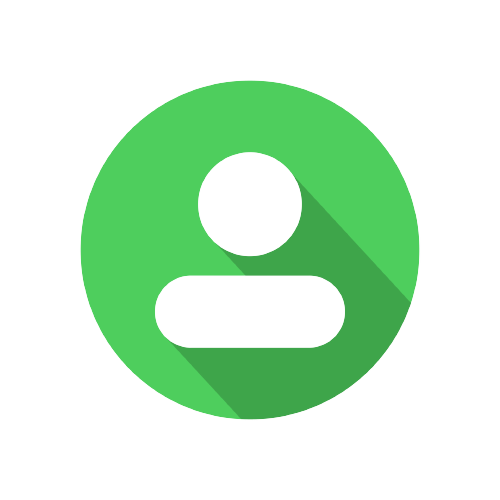
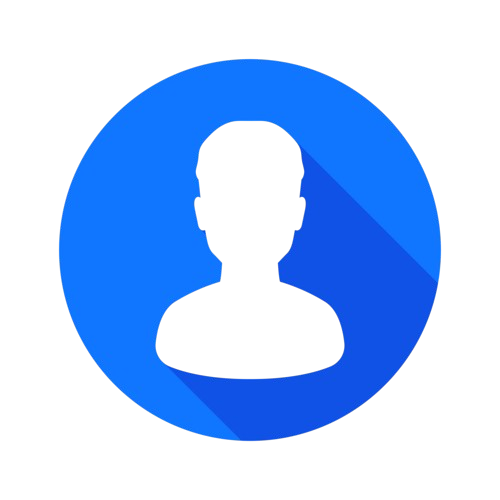
Feat: adiciona funcionalidade de atualizar informações do User no Profile, na tab de Personal details, atualizando em tempo real as informações no TopUserInfo também

diff --git a/resources/views/back/layout/pages-layout.blade.php b/resources/views/back/layout/pages-layout.blade.php
@@ -345,8 +345,8 @@
                 </div>
             </div>
             <div class="footer-wrap pd-20 mb-20 card-box">
-                DeskApp - Bootstrap 4 Admin Template By
-                <a href="https://github.com/dropways" target="_blank">Ankit Hingarajiya</a>
+                Larablog developed By
+                <a href="https://github.com/balenaV" target="_blank">Victor Balena</a>
             </div>
         </div>
     </div>
@@ -356,6 +356,35 @@
     <script src="/back/vendors/scripts/script.min.js"></script>
     <script src="/back/vendors/scripts/process.js"></script>
     <script src="/back/vendors/scripts/layout-settings.js"></script>
+    <script src="https://cdn.jsdelivr.net/npm/sweetalert2@11"></script>
+    <script>
+        // Configura o visual padrão do Toast no SweetAlert2
+        const Toast = Swal.mixin({
+        toast: true,
+        position: 'top-end',
+        showConfirmButton: false,
+        timer: 3000,
+        timerProgressBar: true,
+        width: 'auto',
+        padding: '0.5em 1em',
+        color: '#fff',
+        iconColor: '#fff',
+        didOpen: (toast) => {
+            toast.onmouseenter = Swal.stopTimer;
+            toast.onmouseleave = Swal.resumeTimer;
+        }
+    });
+
+        // Escuta o evento do seu PHP Livewire perfeitamente
+        window.addEventListener('showToastr', function(event) {
+            const isSuccess = event.detail.type === 'success';
+            Toast.fire({
+                icon: event.detail.type, // Usa o 'success' ou 'error' do seu PHP
+                title: event.detail.message,
+                background: isSuccess ? '#22c55e' : '#ef4444'
+            });
+        });
+    </script>
     @stack('scripts')
 </body>
 

diff --git a/app/Livewire/Admin/Profile.php b/app/Livewire/Admin/Profile.php
@@ -33,6 +33,30 @@ class Profile extends Component
             $this->tab = 'personal_details';
         }
     }
+
+    public function updatePersonalDetails()
+    {
+        $user = auth()->user();
+
+        $validatedData = $this->validate([
+            'name' => 'required',
+            'username' => 'required|unique:users,username,' . $user->id,
+            'bio' => 'nullable|string'
+        ]);
+
+        $userUpdated = $user->update($validatedData);
+
+        if ($userUpdated) {
+            $this->dispatch('showToastr',
+            type: 'success',
+             message: 'Your personal details have been updated successfully.');
+             $this->dispatch('updateTopUserInfo')->to(TopUserInfo::class);
+        } else {
+            $this->dispatch('showToastr',
+             type: 'error',
+             message: 'Something went wrong.');
+        }
+    }
     public function render()
     {
         return view('livewire.admin.profile', [

diff --git a/resources/views/livewire/admin/profile.blade.php b/resources/views/livewire/admin/profile.blade.php
@@ -93,7 +93,7 @@
                             <div class="tab-pane fade {{ $tab == 'personal_details' ? 'show active' : '' }}"
                                 id="personal_details" role="tabpanel">
                                 <div class="pd-20">
-                                    <form action="">
+                                    <form wire:submit="updatePersonalDetails()">
                                         <div class="row">
                                             <div class="col-md-12">
                                                 <div class="form-group">
@@ -109,7 +109,7 @@
                                                 <div class="form-group">
                                                     <label for="">Email</label>
                                                     <input type="text" class="form-control" wire:model="email"
-                                                        placeholder="Enter email address">
+                                                        placeholder="Enter email address" disabled>
                                                     @error('email')
                                                         <span class="text-danger">{{ $message }}</span>
                                                     @enderror
@@ -135,8 +135,9 @@
                                                 </div>
                                             </div>
                                         </div>
-                                        <div class="form-group"><button type="submit" class="btn btn-primary">Save
-                                                changes</button></div>
+                                        <div class="form-group"><button type="submit" class="btn btn-primary"><span
+                                                    wire:loading.remove>Save Changes</span>
+                                                <span wire:loading>Saving... wait</span></button></div>
                                     </form>
                                 </div>
                             </div>

diff --git a/app/Livewire/Admin/TopUserInfo.php b/app/Livewire/Admin/TopUserInfo.php
@@ -6,6 +6,10 @@ use Livewire\Component;
 
 class TopUserInfo extends Component
 {
+    protected $listeners = [
+        'updateTopUserInfo'=>'$refresh'
+    ];
+
     public function render()
     {
         return view('livewire.admin.top-user-info',[